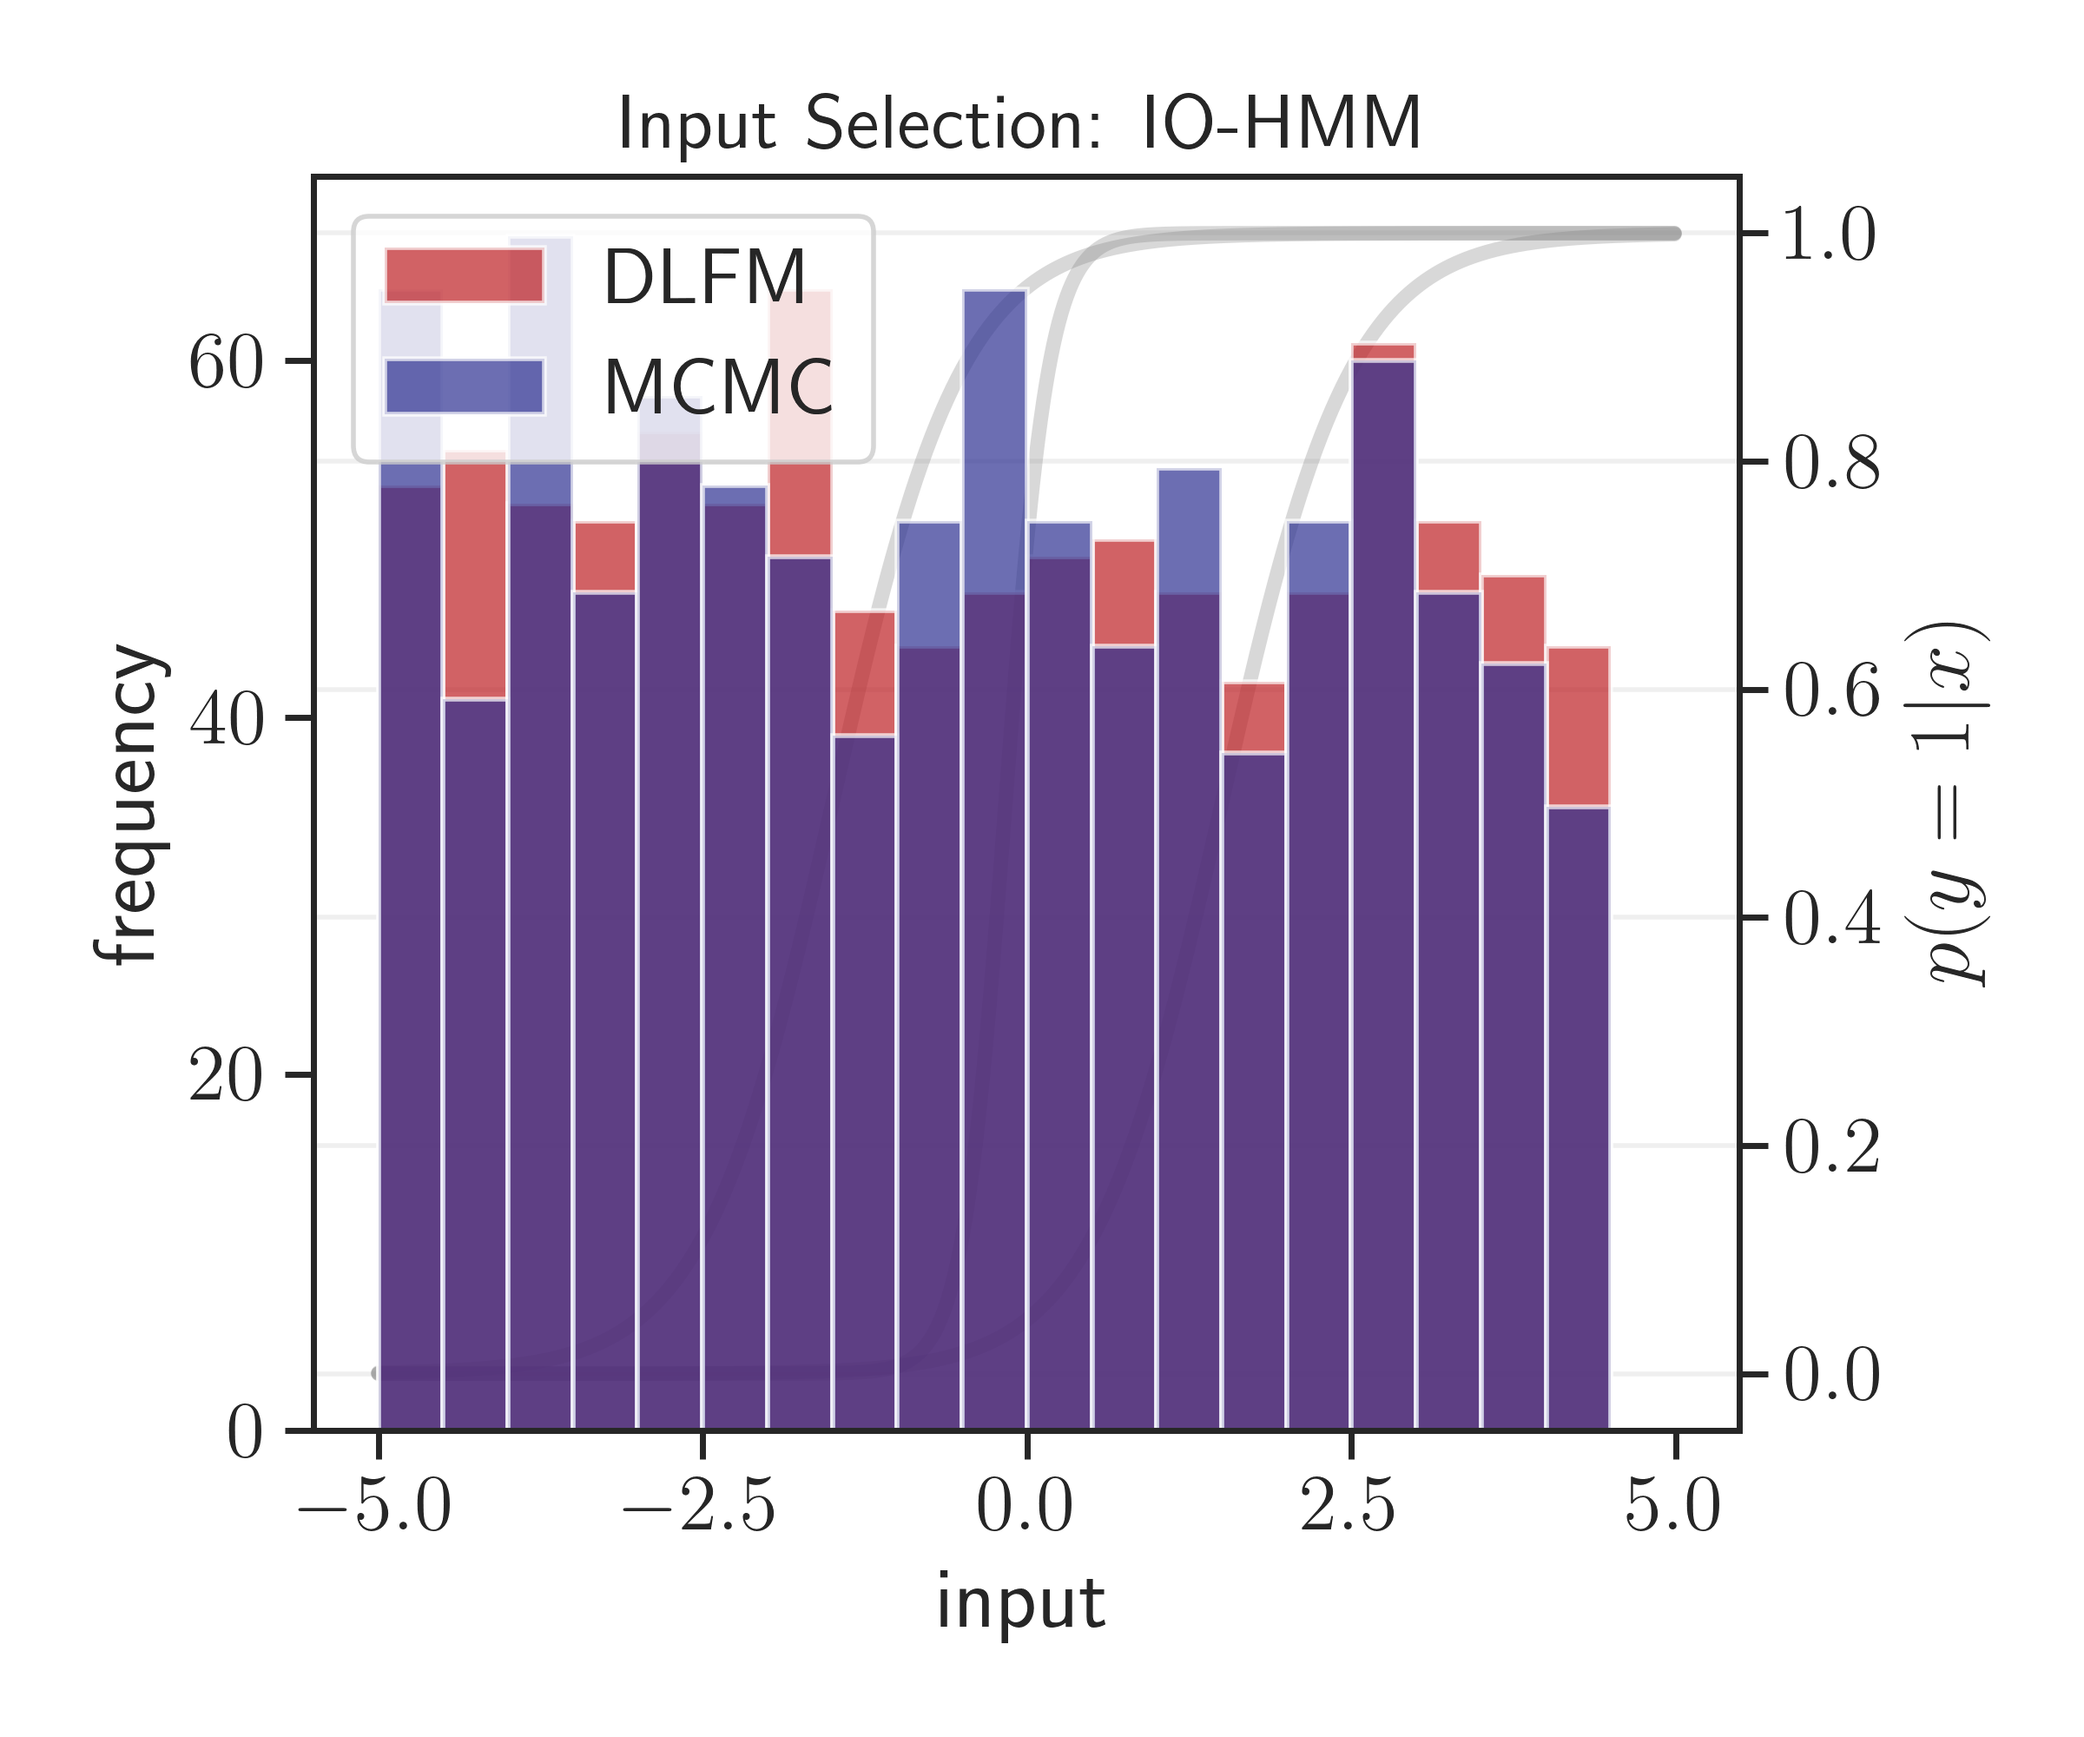
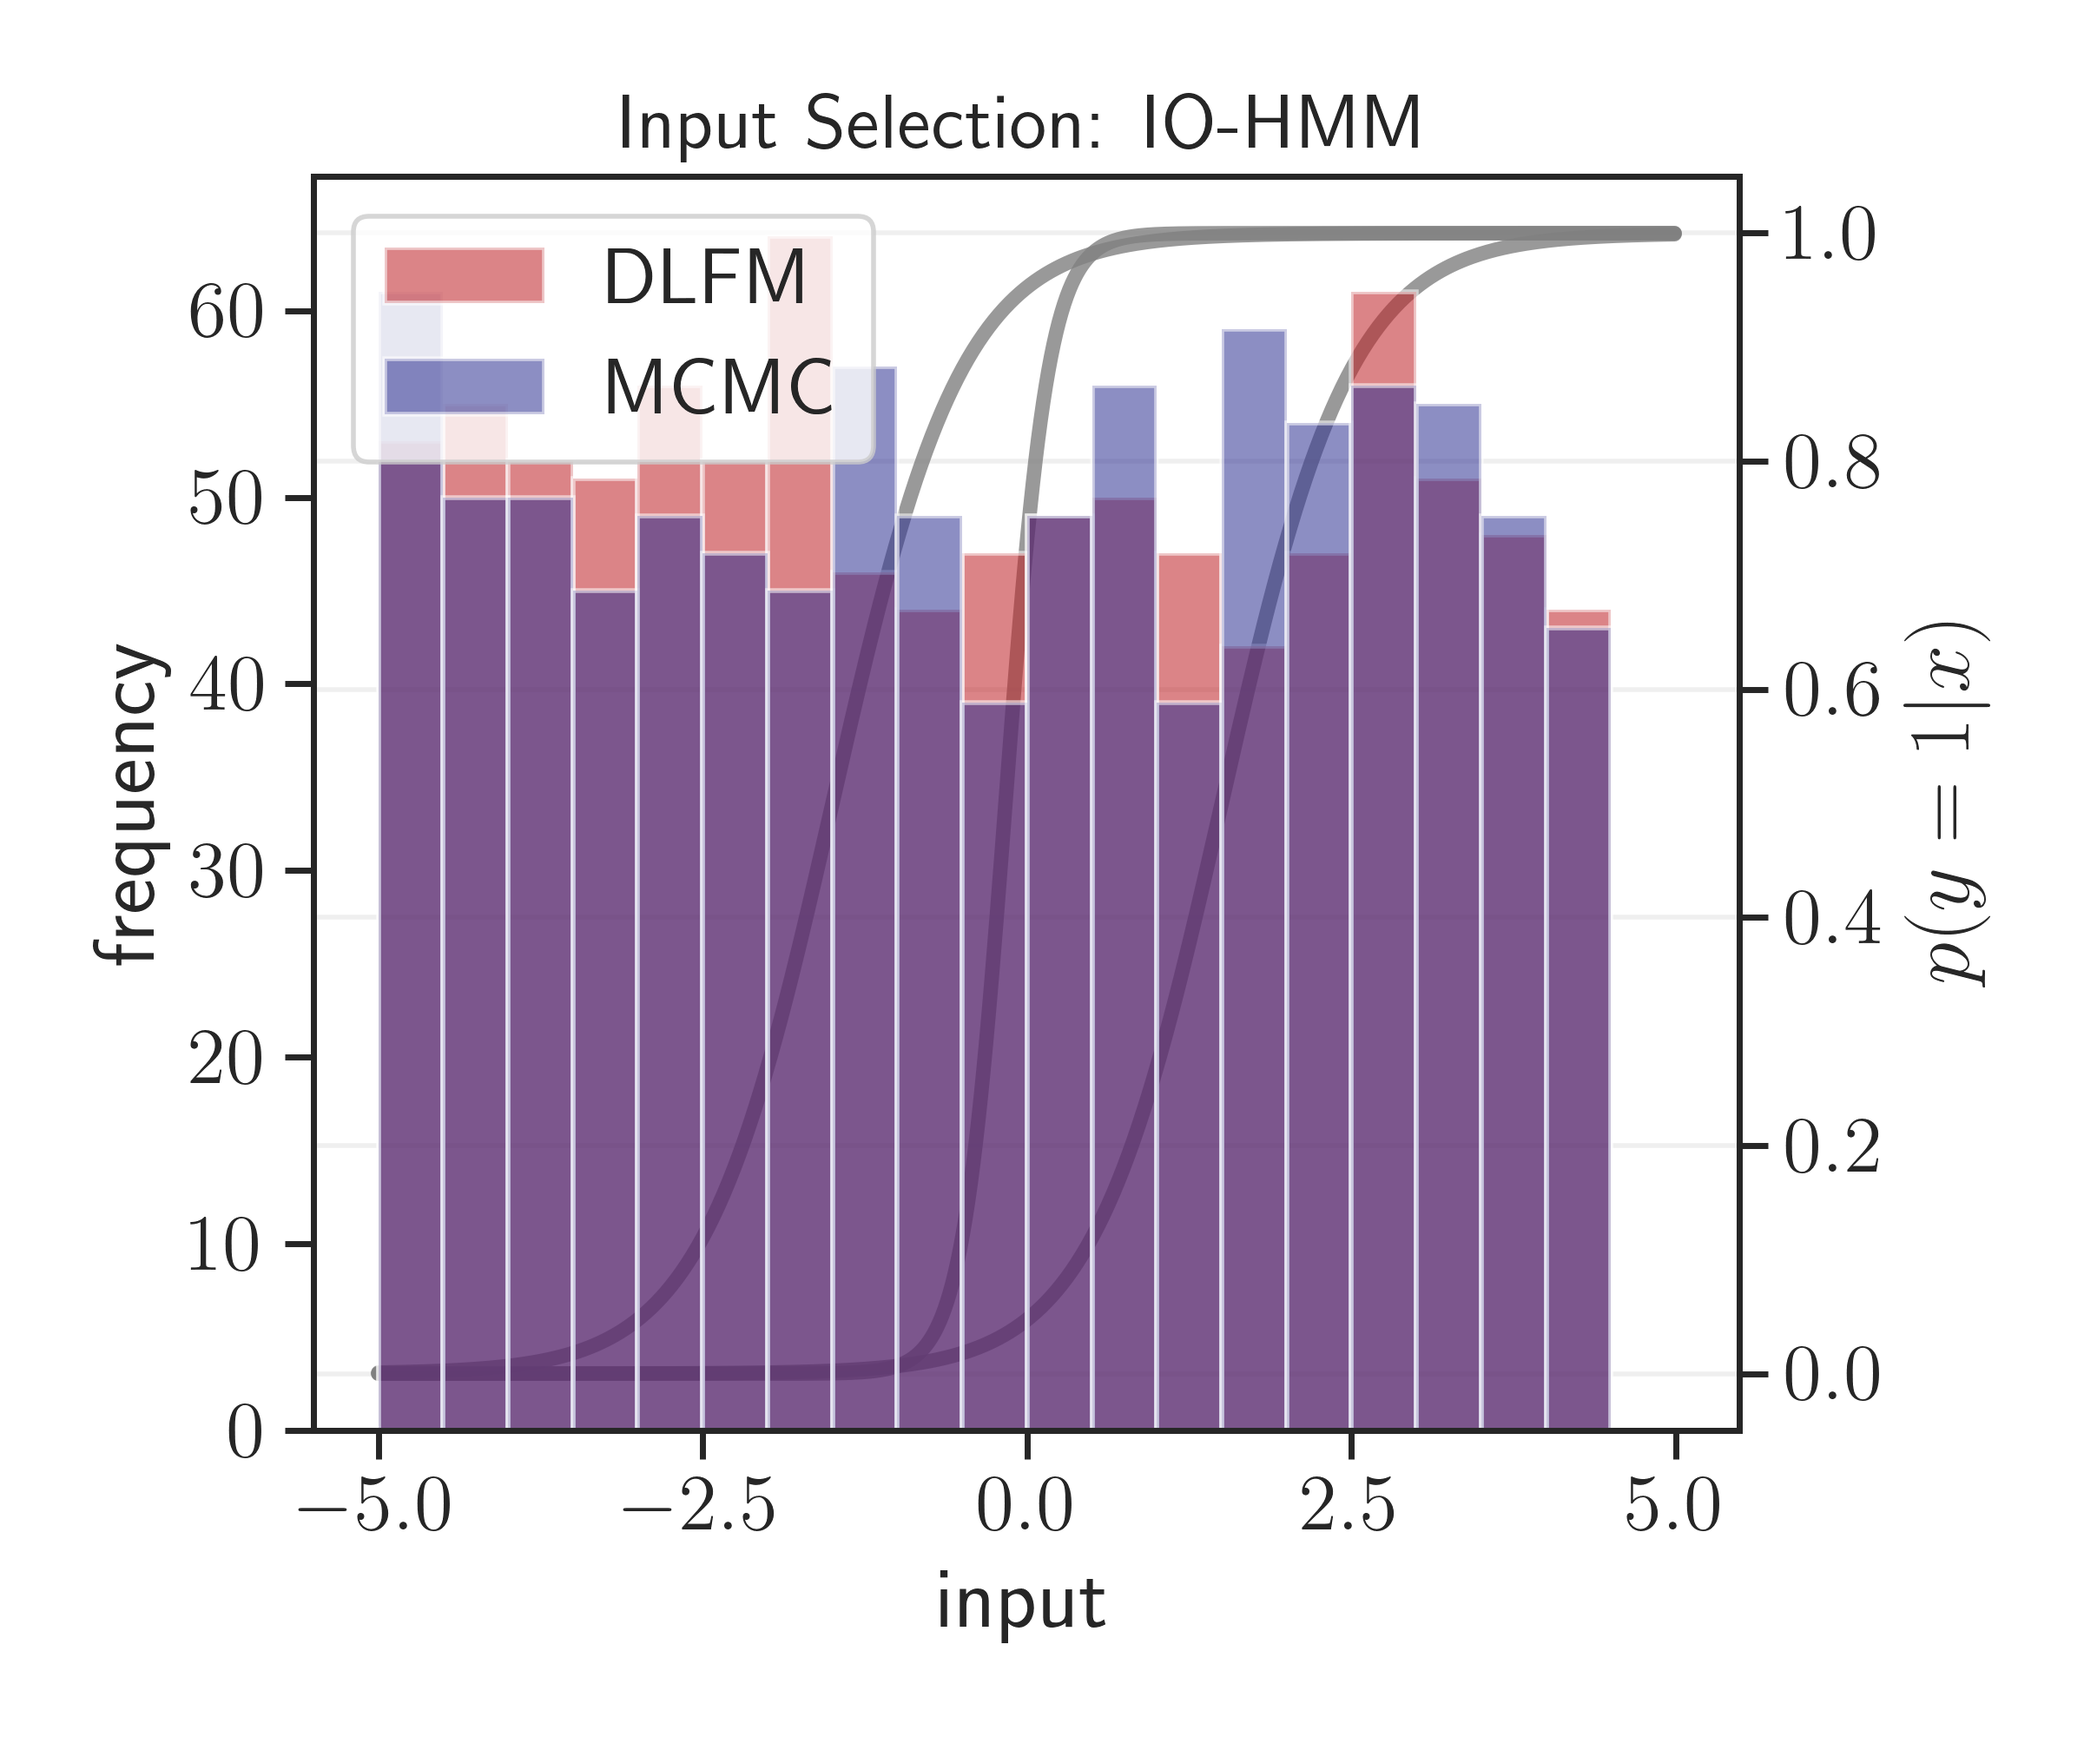
set 4000 num_gibbs_samples

diff --git a/iohmm/plot_err.py b/iohmm/plot_err.py
@@ -33,6 +33,7 @@ num_trials = 997
 init_trials = 100
 
 num_repeats = 1
+num_gibbs_samples = 4000
 
 # * * * * groundtruth HMM for generation * * * * * *
 true_iohmm = ssm.HMM(num_states, obs_dim, input_dim, observations="input_driven_obs", 
@@ -54,7 +55,7 @@ def plot_rmse_w():
         error_in_weights_dlfm = np.convolve(error_in_weights_dlfm, np.ones(5)/5, mode='valid')
         error += error_in_weights_dlfm.tolist()
 
-        error_in_weights_random = np.load(os.path.join(npy_dir, "mcmc", "1001", "random_gibbs_PG_errorinweights_atseed"+str(seed)+"_gibbs_400.npy"))
+        error_in_weights_random = np.load(os.path.join(npy_dir, "mcmc", "1001", "random_gibbs_PG_errorinweights_atseed"+str(seed)+f"_gibbs_{num_gibbs_samples}.npy"))
         error_in_weights_random = np.convolve(error_in_weights_random, np.ones(5)/5, mode='valid')
         error += error_in_weights_random.tolist()
 
@@ -87,7 +88,7 @@ def plot_rmse_p():
         error_in_ps_dlfm = np.convolve(error_in_ps_dlfm, np.ones(5)/5, mode='valid')
         error += error_in_ps_dlfm.tolist()
 
-        error_in_ps_random = np.load(os.path.join(npy_dir, "mcmc", "1001", "random_gibbs_PG_errorinPs_atseed"+str(seed)+"_gibbs_400.npy"))
+        error_in_ps_random = np.load(os.path.join(npy_dir, "mcmc", "1001", "random_gibbs_PG_errorinPs_atseed"+str(seed)+f"_gibbs_{num_gibbs_samples}.npy"))
         error_in_ps_random = np.convolve(error_in_ps_random, np.ones(5)/5, mode='valid')
         error += error_in_ps_random.tolist()
 
@@ -112,7 +113,7 @@ def plot_rmse_p():
 def plot_input_selection():
     seed = 0
     
-    selected_inputs_mcmc = np.load(os.path.join(npy_dir, "mcmc", "1001", f"random_gibbs_PG_selectedinputs_atseed{seed}_gibbs_400.npy"))
+    selected_inputs_mcmc = np.load(os.path.join(npy_dir, "mcmc", "1001", f"random_gibbs_PG_selectedinputs_atseed{seed}_gibbs_{num_gibbs_samples}.npy"))
     selected_inputs_dlfm = np.load(os.path.join(npy_dir, "dlfm", "1001", f"dlfm_selectedinputs_atseed{seed}.npy"))
     selected_inputs_mcmc = np.array(selected_inputs_mcmc)[:, 0]
     selected_inputs_dlfm = selected_inputs_dlfm[init_trials:, 0]
@@ -129,14 +130,14 @@ def plot_input_selection():
     fig, ax1 = plt.subplots(figsize=(6, 5), facecolor='white')
     bins = np.arange(-5, 5, 0.5)
     
-    ax1.hist(selected_inputs_dlfm, alpha=0.7, color=cols_traces[0], label='DLFM', bins=bins)
-    ax1.hist(selected_inputs_mcmc, alpha=0.7, color=cols_traces[1], label='MCMC', bins=bins)
+    ax1.hist(selected_inputs_dlfm, alpha=0.55, color=cols_traces[0], label='DLFM', bins=bins)
+    ax1.hist(selected_inputs_mcmc, alpha=0.55, color=cols_traces[1], label='MCMC', bins=bins)
     ax1.set_xlabel("input")
     ax1.set_ylabel("frequency")
     
     ax2 = ax1.twinx()
     for k in range(num_states):
-        ax2.plot(xgrid, ygrid[:, k], linewidth=3, color='gray', alpha=0.3, zorder=1)
+        ax2.plot(xgrid, ygrid[:, k], linewidth=3, color='gray', alpha=0.8, zorder=1)
     ax2.set_ylabel("$p(y=1|x)$")
     
     ax1.set_zorder(ax2.get_zorder() + 1)
@@ -152,7 +153,7 @@ def plot_input_selection():
 def print_total_times():
     for seed in range(num_repeats):
         print(f"\nSeed {seed}:")
-        mcmc_time = np.load(os.path.join(npy_dir, "mcmc", "1001", f"random_gibbs_PG_total_time_atseed{seed}_gibbs_400.npy"))
+        mcmc_time = np.load(os.path.join(npy_dir, "mcmc", "1001", f"random_gibbs_PG_total_time_atseed{seed}_gibbs_{num_gibbs_samples}.npy"))
         print(f"  MCMC: {mcmc_time:.2f} seconds ({mcmc_time/60:.2f} minutes)")
         dlfm_time = np.load(os.path.join(npy_dir, "dlfm", "1001", f"dlfm_total_time_atseed{seed}.npy"))
         print(f"  DLFM: {dlfm_time:.2f} seconds ({dlfm_time/60:.2f} minutes)")
@@ -161,7 +162,7 @@ def print_total_times():
     dlfm_times = []
     
     for seed in range(num_repeats):
-        mcmc_time = np.load(os.path.join(npy_dir, "mcmc", "1001", f"random_gibbs_PG_total_time_atseed{seed}_gibbs_400.npy"))
+        mcmc_time = np.load(os.path.join(npy_dir, "mcmc", "1001", f"random_gibbs_PG_total_time_atseed{seed}_gibbs_{num_gibbs_samples}.npy"))
         mcmc_times.append(mcmc_time)
         dlfm_time = np.load(os.path.join(npy_dir, "dlfm", "1001", f"dlfm_total_time_atseed{seed}.npy"))
         dlfm_times.append(dlfm_time)

diff --git a/iohmm/mcmc.py b/iohmm/mcmc.py
@@ -199,8 +199,8 @@ if __name__ == "__main__":
                         help='Enter random seed')
     parser.add_argument('--fitting_method', type=str, default='gibbs_PG',
                         help='choose one of gibbs/gibbs_parallel/gibbs_PG')     
-    parser.add_argument('--num_gibbs_samples', type=int, default='400')
-    parser.add_argument('--num_gibbs_burnin', type=int, default='100')
+    parser.add_argument('--num_gibbs_samples', type=int, default='4000')
+    parser.add_argument('--num_gibbs_burnin', type=int, default='1000')
 
     args = parser.parse_args()
     

diff --git a/iohmm/dlfm.py b/iohmm/dlfm.py
@@ -109,6 +109,7 @@ def iohmm_dlfm(num_samples, features, observations, labels):
     Freg = lbd_z * cp.sum(cp.kl_div(z[:-1], z[1:]))  # cp.Expression: regularization on latent factors
     Fconstr = [z >= 0, z <= 1, cp.sum(z, axis=1) == 1]
     Fprob = cp.Problem(cp.Minimize(Fobj + Freg), Fconstr)
+    # Fprob = cp.Problem(cp.Minimize(Fobj), Fconstr)
     assert Fprob.is_dcp()
 
     # Solve, terminate when the F- and P-objective converge
